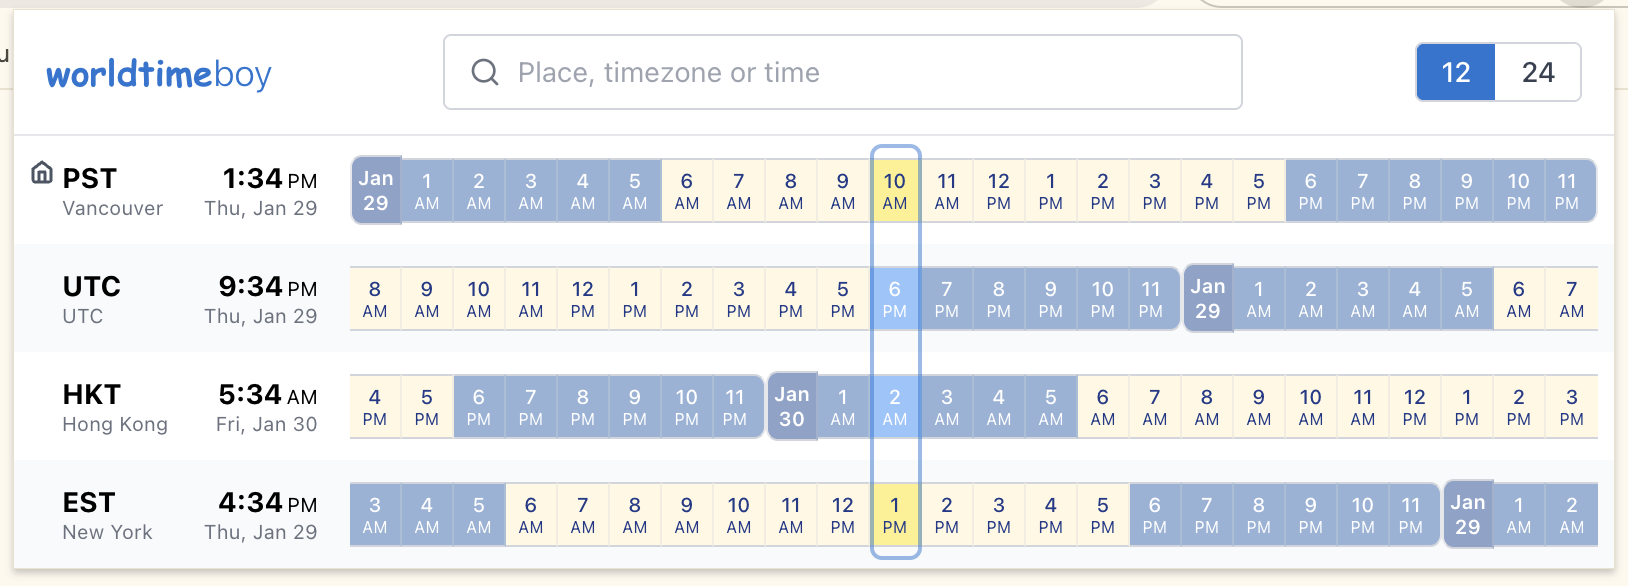
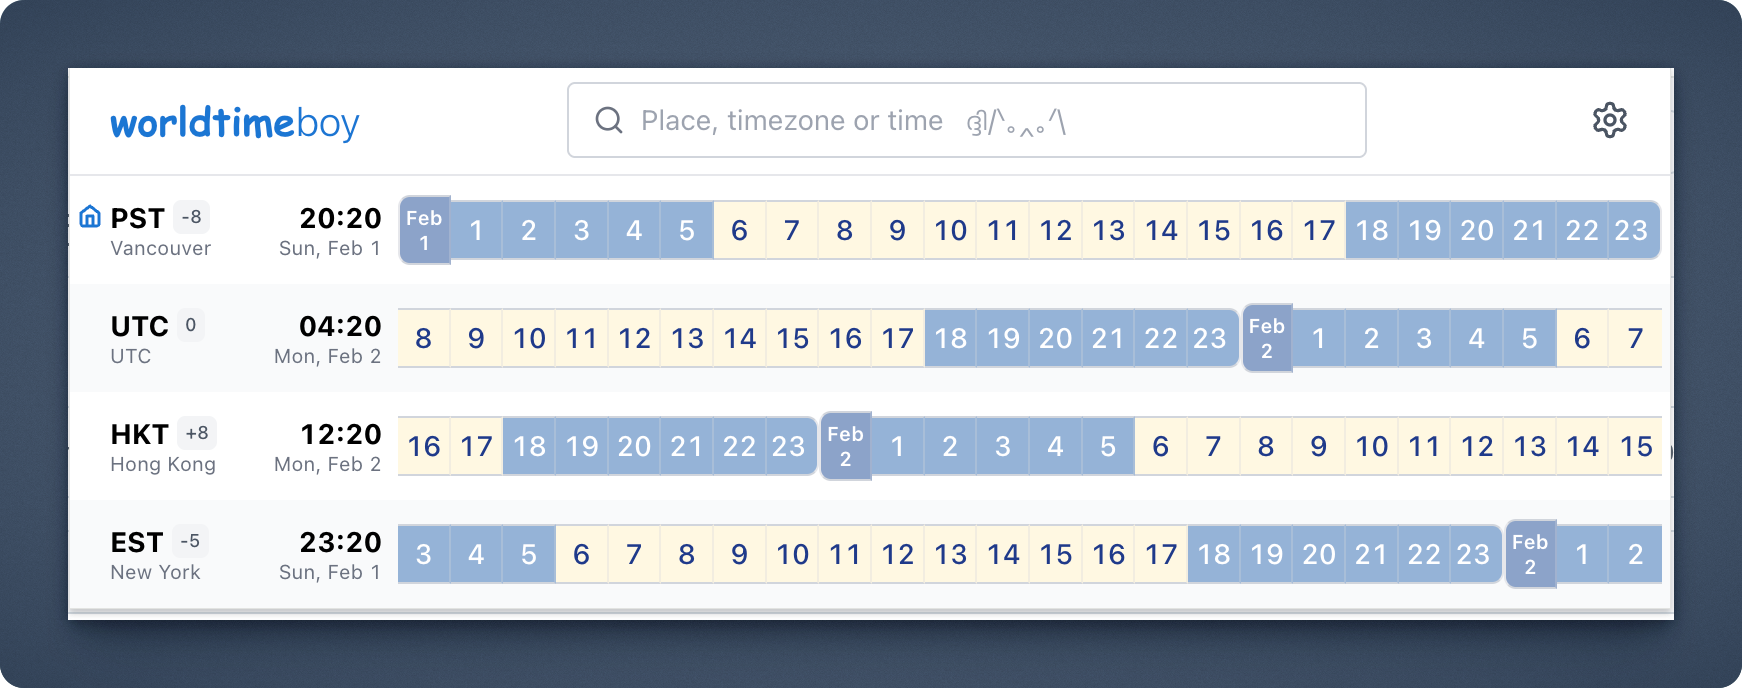
chore: update readme & screenshots

diff --git a/README.md b/README.md
@@ -9,30 +9,41 @@ A lightweight Chrome Extension that displays multiple timezones in [WorldTimeBud
 - Time range selection with drag-to-select
 - Real-time time updates
 
-## Development
+## Screenshots
+![Screenshot](screenshots/screenshot1.png)
+![Screenshot](screenshots/screenshot2.png)
+![Screenshot](screenshots/screenshot3.png)
+
+## Installation & Development
+
+### Option 1: Install from Chrome Web Store
+
+Visit the [Chrome Web Store link](https://chromewebstore.google.com/detail/gmbobjlafdlebknmneehhkhalhkncdja?utm_source=item-share-cb) and add the extension directly to your browser.
+
+### Option 2: Build & Install Locally
 
 1. Install dependencies:
-```bash
-npm install
-```
+   ```bash
+   npm install
+   ```
 
-2. Build for development:
-```bash
-npm run dev
-```
+2. For development, start the dev server:
+   ```bash
+   npm run dev
+   ```
 
-3. Build for production:
-```bash
-npm run build
-```
+3. To build for production:
+   ```bash
+   npm run build
+   ```
 
-## Loading the Extension
+4. Load the extension in Chrome:
+   - Run the production build: `npm run build`
+   - Open Chrome and go to `chrome://extensions/`
+   - Enable "Developer mode"
+   - Click "Load unpacked"
+   - Select the `dist` directory
 
-1. Build the extension: `npm run build`
-2. Open Chrome and navigate to `chrome://extensions/`
-3. Enable "Developer mode"
-4. Click "Load unpacked"
-5. Select the `dist` directory
 
 ## Project Structure
 
